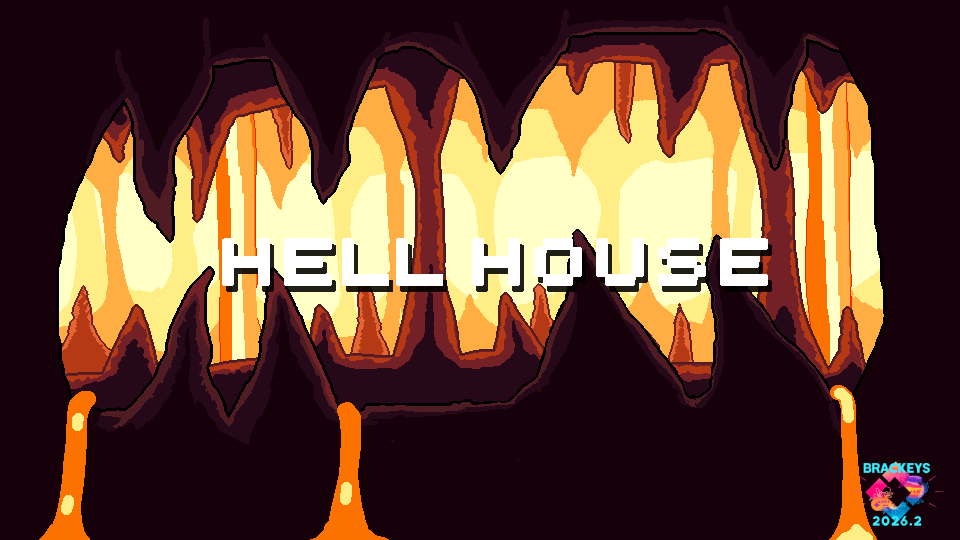
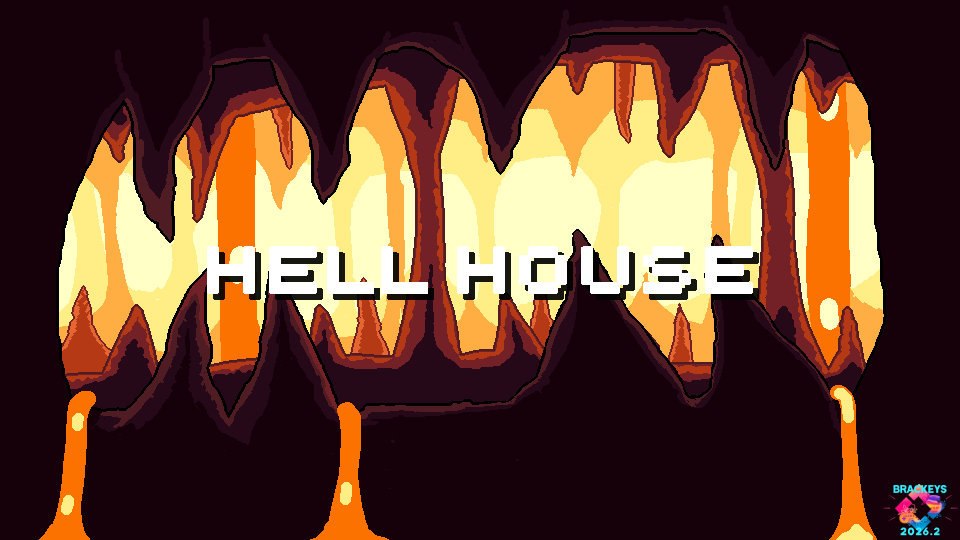
Update readme and loading screen

Changed region(s): [[0.2188, 0.2074, 0.8125, 0.6815], [0.8438, 0.1481, 0.9062, 0.6519], [0.875, 0.8593, 1.0, 1.0]]

diff --git a/README.md b/README.md
@@ -1,4 +1,35 @@
-# Who is the murderer
+# Hell House
+![banner.png](Assets/banner.png)
+**A puzzle game from hell.**
 
-* Grid (3x3 growing with level size)
-* Jedes Feld hat Character mit 1 Hinweis wer der Murderer is
+*Build as part of [Brackeys Game Jam 2026.2](https://itch.io/jam/brackeys-16).*
+
+## Description
+
+Hell House is a murder mistery game in hell.
+
+interrogate the residents and find the murderer!
+
+you can accuse anybody, but be careful, they will strike back, if you accused wrong.
+
+## Screenshots
+
+![title_screen.png](Assets/Screenshots/title_screen.png)
+*Title Screen*
+
+![level_1.png](Assets/Screenshots/level_1.png)
+*3x3 Level*
+
+## Credits
+
+Art - [Miriana](https://www.youtube.com/@MirianaGames)
+Development & Sound Design - [Max Jöhnk](https://maxjoehnk.me)
+
+## Assets
+
+* [Super Dialogue Audio Pack](https://dillonbecker.itch.io/sdap) by [Dillon Becker](https://www.dillonbecker.com/)
+* [400 Sounds Pack](https://ci.itch.io/400-sounds-pack)
+* [UI User Interface Mega Pack](https://toffeecraft.itch.io/ui-user-interface-mega-pack)
+* [Scary Ambient Sounds](https://frederikbertelsen.itch.io/scary-ambient-sounds)
+* [Sound Effects - Survival 1](https://darkworldaudio.itch.io/sound-effects-survival-i)
+* [Unscreen MK](https://www.dafont.com/unscreen-mk.font) by [Manfred Klein](http://manfred-klein.ina-mar.com)
